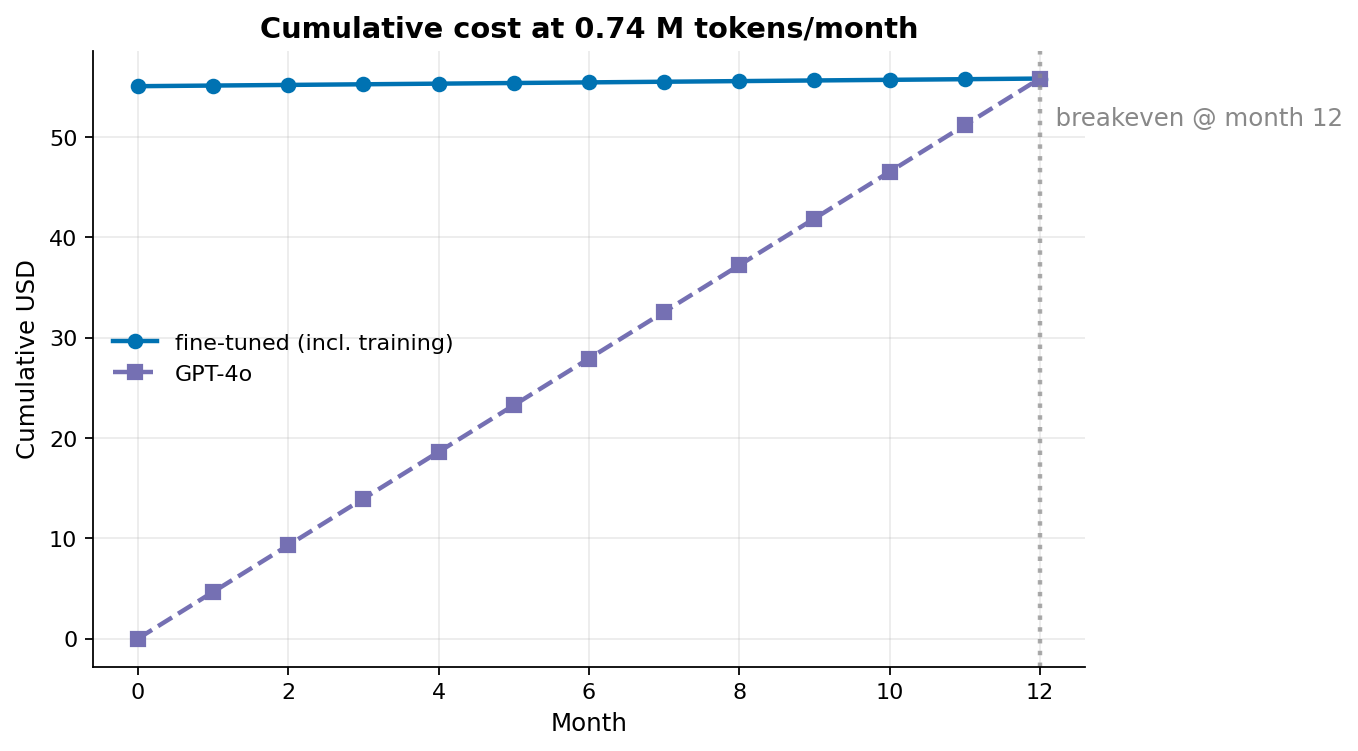
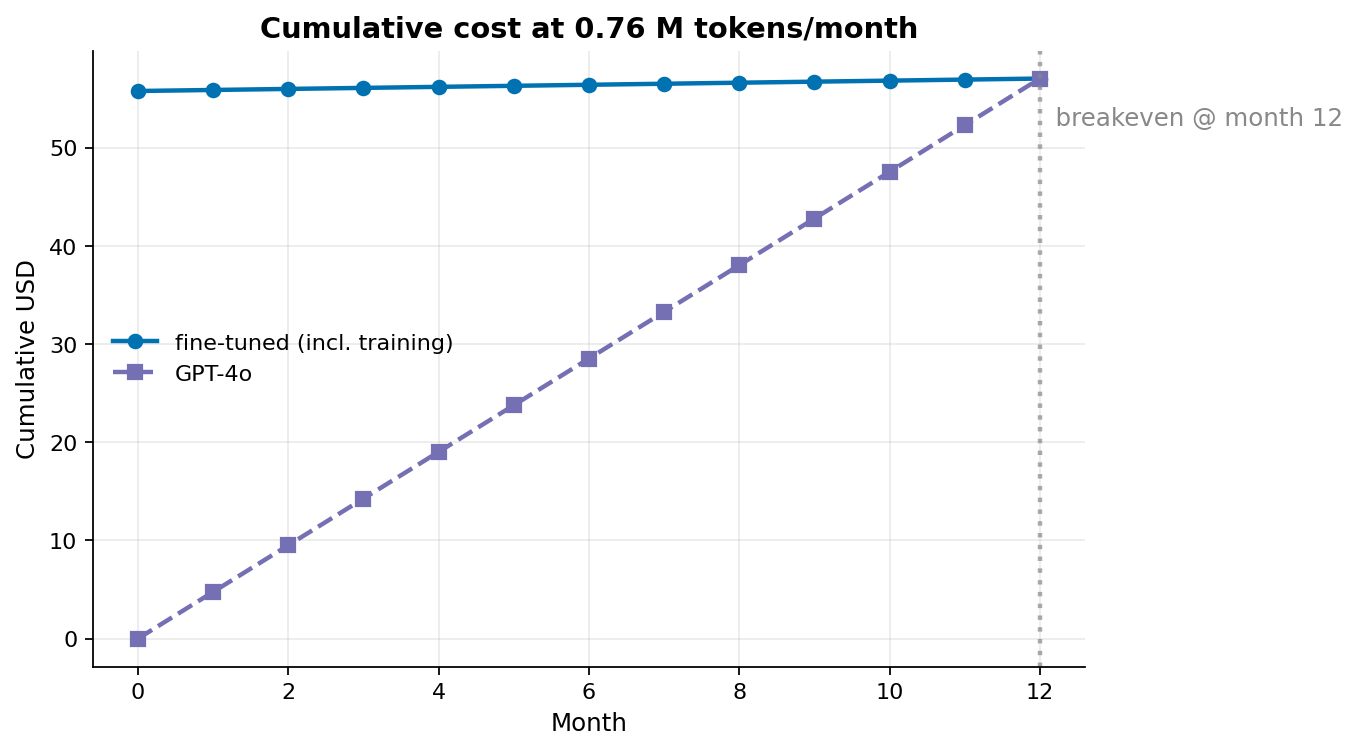
fix(runpod): retarget paid run to a40

diff --git a/tests/cost/test_inference_cost.py b/tests/cost/test_inference_cost.py
@@ -18,10 +18,10 @@ from anvil.data.pricing import ANTHROPIC_PRICES, OPENAI_PRICES
 def test_cost_known_value() -> None:
     cost = self_hosted_cost_per_1m_tokens(
         sustained_throughput_tps=2100.0,
-        gpu_hourly_usd=0.27,
+        gpu_hourly_usd=0.44,
         utilization=1.0,
     )
-    assert cost == pytest.approx(0.03571, abs=1e-4)
+    assert cost == pytest.approx(0.05820, abs=1e-4)
 
 
 def test_cost_scales_linearly_with_gpu_price() -> None:
@@ -73,8 +73,8 @@ def test_cost_rejects_utilization_above_one() -> None:
 
 
 def test_gpu_tiers_have_current_runpod_entries() -> None:
-    assert GPU_TIERS["runpod-rtx-a5000-community"].hourly_usd == pytest.approx(0.27)
-    assert GPU_TIERS["runpod-rtx-a5000-community"].vram_gb == 24
+    assert GPU_TIERS["runpod-a40-community"].hourly_usd == pytest.approx(0.44)
+    assert GPU_TIERS["runpod-a40-community"].vram_gb == 48
     assert GPU_TIERS["runpod-a100-pcie-80gb-community"].hourly_usd == pytest.approx(1.39)
     assert GPU_TIERS["runpod-a100-sxm-80gb-community"].hourly_usd == pytest.approx(1.49)
     assert GPU_TIERS["runpod-h100-pcie-80gb-community"].hourly_usd == pytest.approx(2.89)
@@ -120,16 +120,16 @@ def test_blended_per_1m_rejects_out_of_range() -> None:
 
 def test_build_self_hosted_renders_notes() -> None:
     sh = build_self_hosted(
-        label="QLoRA on A5000",
-        gpu_tier_key="runpod-rtx-a5000-community",
+        label="QLoRA on A40",
+        gpu_tier_key="runpod-a40-community",
         sustained_throughput_tps=2100.0,
         utilization=0.9,
     )
     scenario = sh.to_scenario()
-    assert scenario.label == "QLoRA on A5000"
+    assert scenario.label == "QLoRA on A40"
     assert "2100 tok/s sustained" in scenario.notes
     assert "90%" in scenario.notes
-    assert scenario.usd_per_1m_tokens == pytest.approx(0.03968, abs=1e-4)
+    assert scenario.usd_per_1m_tokens == pytest.approx(0.06467, abs=1e-4)
 
 
 def test_build_self_hosted_unknown_gpu_raises_clean() -> None:
@@ -139,8 +139,8 @@ def test_build_self_hosted_unknown_gpu_raises_clean() -> None:
 
 def test_compare_bundles_self_hosted_and_api() -> None:
     sh = build_self_hosted(
-        label="QLoRA on A5000",
-        gpu_tier_key="runpod-rtx-a5000-community",
+        label="QLoRA on A40",
+        gpu_tier_key="runpod-a40-community",
         sustained_throughput_tps=2100.0,
     )
     cmp = compare([sh], ["gpt-4o", "claude-sonnet-4-6"], input_share=0.5)
@@ -164,12 +164,12 @@ def test_compare_rejects_unknown_api_key() -> None:
 
 def test_to_dict_round_trips_through_json() -> None:
     sh = build_self_hosted(
-        label="QLoRA on A5000",
-        gpu_tier_key="runpod-rtx-a5000-community",
+        label="QLoRA on A40",
+        gpu_tier_key="runpod-a40-community",
         sustained_throughput_tps=2100.0,
     )
     cmp = compare([sh], ["gpt-4o"])
     encoded = json.dumps(cmp.to_dict())
     decoded = json.loads(encoded)
     assert decoded["input_share"] == cmp.input_share
-    assert decoded["self_hosted"][0]["label"] == "QLoRA on A5000"
+    assert decoded["self_hosted"][0]["label"] == "QLoRA on A40"

diff --git a/tests/scripts/test_cost.py b/tests/scripts/test_cost.py
@@ -65,13 +65,13 @@ months_horizon = 12
 
 [training]
 gpu_hours = 4.0
-gpu_tier_key = "runpod-rtx-a5000-community"
+gpu_tier_key = "runpod-a40-community"
 synthesis_api_cost_usd = 54.0
 eval_api_cost_usd = 0.0
 
 [fine_tuned]
-label = "Llama 3.1 8B QLoRA on RTX A5000"
-gpu_tier_key = "runpod-rtx-a5000-community"
+label = "Llama 3.1 8B QLoRA on A40"
+gpu_tier_key = "runpod-a40-community"
 throughput_tps = 1100.0
 throughput_source = "Published benchmark, refresh before quoting"
 utilization = 0.8
@@ -92,7 +92,7 @@ def test_load_cost_config_minimal(tmp_path: Path) -> None:
 
 def test_load_cost_config_rejects_unknown_gpu_tier(tmp_path: Path) -> None:
     body = _smoke_body(tmp_path).replace(
-        '"runpod-rtx-a5000-community"',
+        '"runpod-a40-community"',
         '"made-up-tier"',
     )
     config_path = _write_config(tmp_path, body)
@@ -247,13 +247,13 @@ months_horizon = 12
 
 [training]
 gpu_hours = 0.0
-gpu_tier_key = "runpod-rtx-a5000-community"
+gpu_tier_key = "runpod-a40-community"
 synthesis_api_cost_usd = 120.0
 eval_api_cost_usd = 0.0
 
 [fine_tuned]
 label = "test"
-gpu_tier_key = "runpod-rtx-a5000-community"
+gpu_tier_key = "runpod-a40-community"
 throughput_tps = 100000.0
 throughput_source = "synthetic, for test"
 utilization = 1.0
@@ -292,7 +292,7 @@ def test_smoke_config_file_loads() -> None:
     config = load_cost_config(Path("configs/cost-smoke.toml"))
 
     assert isinstance(config, CostConfig)
-    assert config.training_gpu_tier_key == "runpod-rtx-a5000-community"
+    assert config.training_gpu_tier_key == "runpod-a40-community"
     assert config.months_horizon == 12
 
 

diff --git a/anvil/cost/inference_cost.py b/anvil/cost/inference_cost.py
@@ -13,7 +13,8 @@ working notes; before any paid run that quotes these numbers, refresh both
 tables against current rates and re-run the chart pipeline.
 
 Sources:
-- RunPod community tier pricing: https://runpod.io/pricing (as of 2026-05-27)
+- RunPod community tier pricing: https://runpod.io/pricing (A40 as shown in
+  RunPod pod selection on 2026-05-30)
 - OpenAI API pricing:            https://openai.com/api/pricing (as of 2026-05-27)
 - Anthropic Claude API pricing:  https://www.anthropic.com/pricing (as of 2026-05-27)
 """
@@ -63,11 +64,11 @@ def _api_pricing(name: str, prices: tuple[float, float]) -> ApiPricing:
 
 
 GPU_TIERS: dict[str, GpuTier] = {
-    "runpod-rtx-a5000-community": GpuTier(
-        name="RunPod RTX A5000 (Community)",
-        hourly_usd=0.27,
-        vram_gb=24,
-        notes="The paid-run target. Fits Llama 3.1 8B QLoRA on a budget 24 GB pod.",
+    "runpod-a40-community": GpuTier(
+        name="RunPod A40 (Community)",
+        hourly_usd=0.44,
+        vram_gb=48,
+        notes="The paid-run target. Fits Llama 3.1 8B QLoRA with 48 GB VRAM headroom.",
     ),
     "runpod-a100-pcie-80gb-community": GpuTier(
         name="RunPod A100 PCIe 80GB (Community)",

diff --git a/anvil/preflight.py b/anvil/preflight.py
@@ -121,7 +121,7 @@ def check_cuda_available() -> CheckResult:
 def check_compute_capability(min_major: int, min_minor: int) -> CheckResult:
     """Check device 0 has compute capability >= (min_major, min_minor).
 
-    RTX A5000 is (8, 6); A100 is (8, 0); H100 is (9, 0).
+    A40 is (8, 6); A100 is (8, 0); H100 is (9, 0).
     """
     try:
         import torch
@@ -176,7 +176,7 @@ def rehearsal_checks() -> list[CheckResult]:
 
 
 def full_run_checks() -> list[CheckResult]:
-    """Checks the paid GPU run needs: tokens, training stack, CUDA + A5000."""
+    """Checks the paid GPU run needs: tokens, training stack, CUDA + Ampere."""
     import os
 
     checks: list[CheckResult] = []

diff --git a/anvil/training/qlora.py b/anvil/training/qlora.py
@@ -1,7 +1,7 @@
 """Backend-agnostic QLoRA training config.
 
 The same `TrainingConfig` drives both the M1 smoke (TRL `SFTTrainer` +
-non-quantized LoRA) and the paid run (Unsloth + QLoRA on an A5000). The
+non-quantized LoRA) and the paid run (Unsloth + QLoRA on an A40). The
 config does not import any CUDA-coupled module so it can be parsed,
 validated, and tested under the regular `uv sync` install on macOS;
 the actual trainer wiring lives in a separate driver that imports

diff --git a/tests/scripts/test_chart.py b/tests/scripts/test_chart.py
@@ -62,7 +62,7 @@ def _write_cost_report(path: Path) -> Path:
         "training_cost": {"total_usd": 56.76},
         "inference_cost": {
             "self_hosted": [
-                {"label": "Llama 3.1 8B on A5000", "usd_per_1m_tokens": 0.22, "notes": "test"}
+                {"label": "Llama 3.1 8B on A40", "usd_per_1m_tokens": 0.22, "notes": "test"}
             ],
             "api": [
                 {"label": "GPT-4o", "usd_per_1m_tokens": 6.25, "notes": "test"},

diff --git a/tests/plots/test_charts.py b/tests/plots/test_charts.py
@@ -212,8 +212,8 @@ def test_json_validity_rate_rejects_invalid_rates(
 
 def test_cost_per_1m_tokens_renders_one_bar_per_scenario() -> None:
     sh = build_self_hosted(
-        label="Llama 3.1 8B on A5000",
-        gpu_tier_key="runpod-rtx-a5000-community",
+        label="Llama 3.1 8B on A40",
+        gpu_tier_key="runpod-a40-community",
         sustained_throughput_tps=2100.0,
     )
     comparison = compare([sh], ["gpt-4o", "claude-sonnet-4-6"])

diff --git a/README.md b/README.md
@@ -56,12 +56,12 @@ JSON files are populated.
 
 | Layer | Choice | Why |
 |---|---|---|
-| Base model | `meta-llama/Llama-3.1-8B-Instruct` | Industry-standard, fits an A5000 at QLoRA, gated access validated |
+| Base model | `meta-llama/Llama-3.1-8B-Instruct` | Industry-standard, fits an A40 at QLoRA, gated access validated |
 | PEFT | QLoRA (NF4 + LoRA) | Matches 16-bit quality at ~7 GB peak VRAM; only path that fits the budget |
 | Training framework | Unsloth (paid run), TRL `SFTTrainer` (M1 smoke) | Unsloth's fused kernels = 2× faster + 70% less VRAM; TRL is the M1 fallback |
 | Dataset synthesis | OpenAI GPT-4o full run; fixture smoke run | GPT-4o's strict structured outputs minimize schema-violation retries; fixtures keep CI free |
 | Eval | Field-level scores + JSON-validity rate across base / fine-tuned / GPT-4o | Validity gates every score; unparsable output does not get credit |
-| GPU | RunPod RTX A5000 24 GB Community | Existing budget 24 GB tier that fits Llama 3.1 8B at QLoRA |
+| GPU | RunPod A40 48 GB Community | Actual paid-run pod at $0.44/hr with headroom for Llama 3.1 8B QLoRA |
 | Publishing | Hugging Face Hub (adapter + model card) | Standard distribution path |
 | HF demo | Gradio on Spaces ZeroGPU ([`deploy/hf-spaces/`](deploy/hf-spaces/)) | Free, low-friction three-way side-by-side |
 
@@ -71,7 +71,7 @@ JSON files are populated.
 flowchart TD
     Data["<b>data-smoke / data-full</b><br/>synth (fixture · OpenAI · Anthropic)<br/>curate (length + language + schema + dedup)<br/>split (stratified, anti-contamination hash guard)<br/>format (chat-template messages JSONL)"]
     DataOut[("data/{smoke,full}/{train,val,test}.jsonl")]
-    Train["<b>train</b><br/>TRL on M1, Unsloth on A5000<br/>shared TrainingConfig dataclass"]
+    Train["<b>train</b><br/>TRL on M1, Unsloth on A40<br/>shared TrainingConfig dataclass"]
     TrainOut[("outputs/{smoke,full}/final/ (LoRA adapter)")]
     Eval["<b>eval</b><br/>three predictors behind one Protocol:<br/>FixturePredictor · LocalExtractionPredictor · OpenAIExtractionPredictor"]
     EvalOut[("results/eval/{smoke,full}/comparison.json")]
@@ -114,7 +114,7 @@ any training spend is incurred.
   and aborts if any sample appears in two splits.
 - **Training**: 3 epochs of QLoRA (NF4 + LoRA, rank 16, alpha 32,
   `all_linear` target modules) on Llama 3.1 8B via Unsloth on a single
-  RTX A5000. ~2-4 wall-clock hours, roughly $1 of GPU time before storage.
+  A40. ~2-4 wall-clock hours, roughly $1-2 of GPU time before storage.
 - **Eval**: base, fine-tuned, and GPT-4o predictors run over the same held-out
   synthetic test split. The report captures JSON validity, field-level scores,
   token totals, latency, and API cost.
@@ -123,7 +123,7 @@ any training spend is incurred.
   sustained throughput, and utilization. Breakeven volume = amortized
   training / (API per-1M − self-hosted per-1M).
   Anvil's README keeps the current cost chart illustrative until the paid
-  A5000 run replaces the placeholder throughput estimate.
+  A40 run replaces the placeholder throughput estimate.
 
 ## Project layout
 

diff --git a/deploy/runpod.md b/deploy/runpod.md
@@ -9,8 +9,8 @@ before starting the pod.
 
 | Setting | Value | Why |
 |---|---|---|
-| GPU | **RTX A5000 24 GB** | Existing 24 GB pod; enough for Llama 3.1 8B QLoRA. |
-| Image | PyTorch 2.x base image with CUDA 12.x+ | Keeps CUDA, Python, and PyTorch aligned before installing Unsloth. |
+| GPU | **A40 48 GB at $0.44/hr** | Actual paid-run pod; enough headroom for Llama 3.1 8B QLoRA. |
+| Image | `runpod/pytorch:2.4.0-py3.11-cuda12.4.1-devel-ubuntu22.04` | Known-good CUDA 12.4 / PyTorch 2.4 base before installing Unsloth. |
 | Container disk | **20 GB** | Keep model weights, uv cache, W&B, temp files, and outputs off this disk. |
 | Volume | **100 GB mounted at `/workspace`** | Room for Llama cache, synthesized data, checkpoints, final adapter, W&B, logs, and transfer archives. |
 | Network | outbound to `huggingface.co`, `api.openai.com`, `api.wandb.ai` | Required for model access, synthesis/eval, and telemetry. |
@@ -113,8 +113,8 @@ print("unsloth", getattr(unsloth, "__version__", "installed"))
 PY
 ```
 
-Expected: NumPy is below `2.3`, CUDA is available, and the GPU is the RTX
-A5000. If NumPy is `2.3+`, rerun the install command above before starting the
+Expected: NumPy is below `2.3`, CUDA is available, and the GPU is the
+A40. If NumPy is `2.3+`, rerun the install command above before starting the
 paid run.
 
 Verify Hugging Face access without printing the token:
